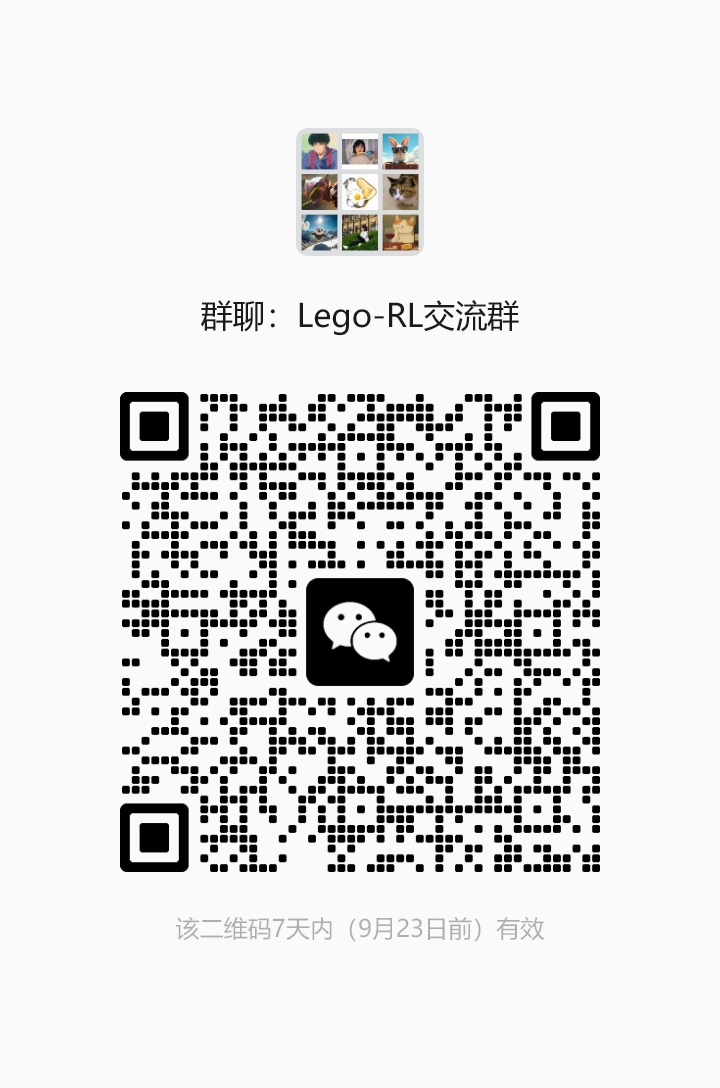
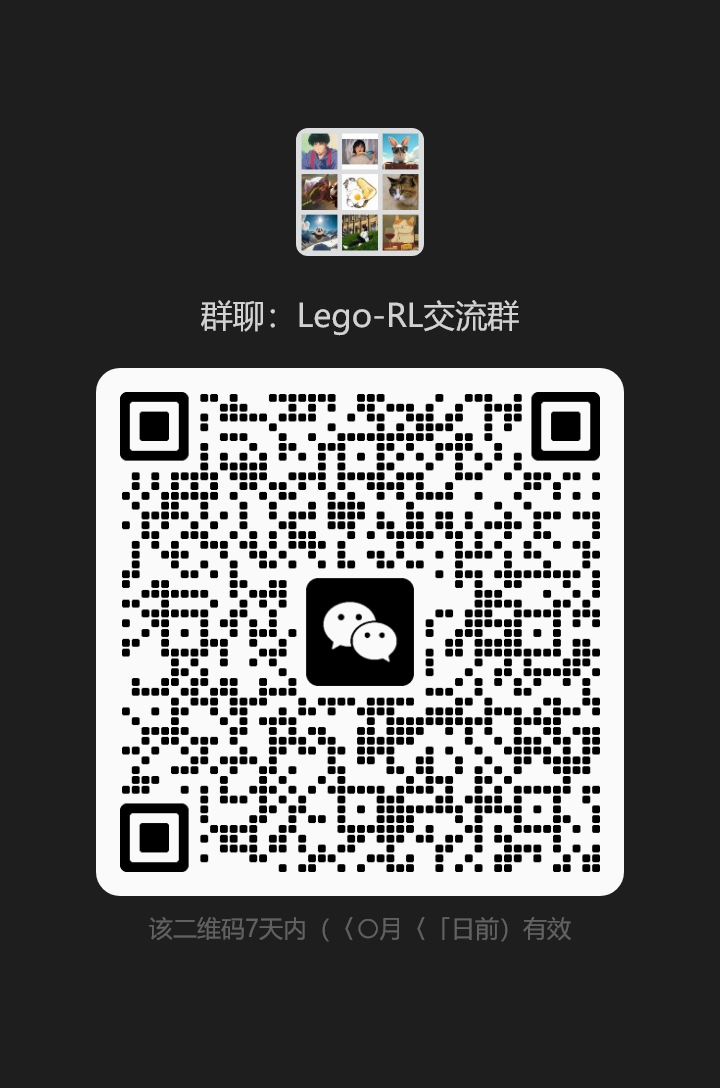
docs: add Codex dashboard and refresh WeChat QR code

diff --git a/README.md b/README.md
@@ -32,6 +32,10 @@ updates the policy from the captured trajectory.
 
 ## News
 
+- [2026/10/08] **Codex training dashboard.** The dedicated
+  [Codex dashboard](https://rl-dashboard-codex.legox.net/) shows the
+  `cx-6n8g-dlcoenjt6d5urdcu` experiment, with training curves and per-trial analysis.
+  Workspace sign-in is required.
 - [2026/09/17] **Public training dashboards.** We are opening the live dashboards of six real
   Lego-RL runs, all on Qwen3.5-35B-A3B: GSPO on OpenSWE with each harness natively —
   [OpenHands SDK](https://rl-dashboard-openhands.legox.net),
@@ -128,6 +132,10 @@ the dashboard on your own logs:
 bash webui/start_dashboard.sh
 ```
 
+**Codex:** [rl-dashboard-codex ↗](https://rl-dashboard-codex.legox.net/) is the dedicated
+board for `cx-6n8g-dlcoenjt6d5urdcu`. It displays only this experiment and requires
+Workspace sign-in.
+
 ## Key Features
 
 - **Native agents**: Claude Code, OpenHands, and OpenCode run through thin adapters. A custom
@@ -177,7 +185,9 @@ The validate step launches nothing. In Claude Code the same run is `/rl:run scri
 Questions, run reports and contributions are welcome. Scan to join the WeChat group:
 
 <div align="center">
- <img src="docs/public/wechat_group.png" width="220" alt="Lego-RL WeChat group">
+ <a href="docs/public/wechat_group.png">
+  <img src="docs/public/wechat_group.png" width="320" alt="Lego-RL WeChat group — click to view the full-size QR code">
+ </a>
 </div>
 
 
